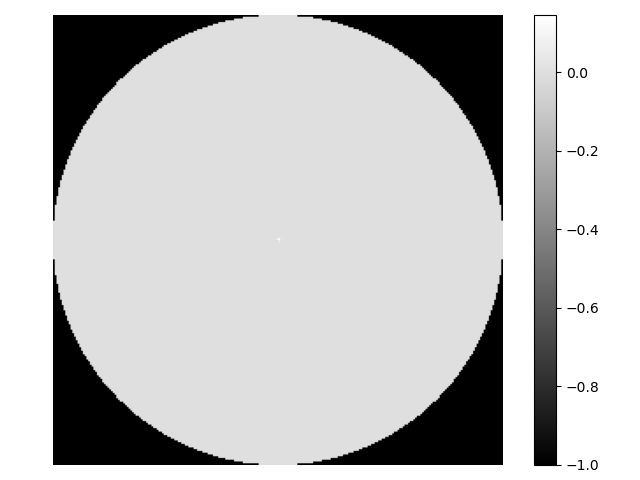
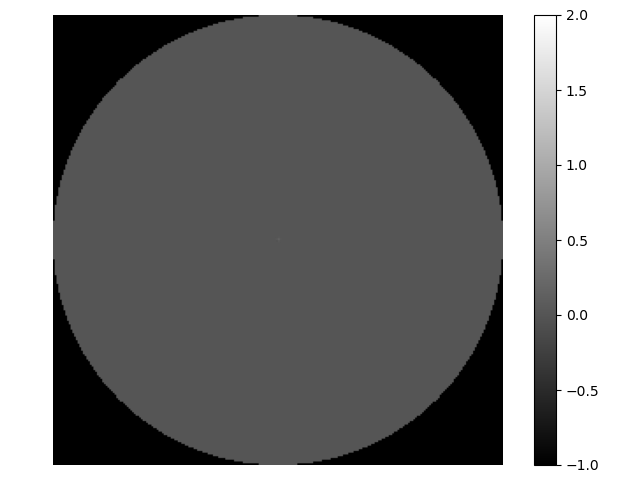
test 4: contrast between ideal and real source.

diff --git a/rt_beam_hard_test.py b/rt_beam_hard_test.py
@@ -1,0 +1,41 @@
+
+# these are the imports you are likely to need
+import numpy as np
+from material import *
+from source import *
+from fake_source import *
+from ct_phantom import *
+from ct_lib import *
+from scan_and_reconstruct import *
+from create_dicom import *
+
+# create object instances
+material = Material()
+source = Source()
+
+def test_4():
+    """contrast reconstructed image using real vs ideal source packet"""
+
+    pic = int(input("Enter the phantom type: "))
+    p = ct_phantom(material.name, 256, pic) # TODO: can try a different material type for pic = 1
+
+    # convert phantom where each pixel stores material index to attenuation coefficient mu at the peak energy value
+    peak_energy = 0.07 # MeV
+    peak_energy_idx = np.nonzero(material.mev==peak_energy)[0][0]
+    p_mu = np.empty(p.shape)
+    for i in range(p.shape[0]):
+        for j in range(p.shape[1]):
+            p_mu[i,j] = material.coeff(material.name[int(p[i,j])])[peak_energy_idx]
+
+    s_real = source.photon('100kVp, 3mm Al')
+    y_real = scan_and_reconstruct(s_real, material, p, 0.01, 256)
+    s_ideal = fake_source(source.mev, 0.1, method='ideal')
+    y_ideal = scan_and_reconstruct(s_ideal, material, p, 0.01, 256)
+
+    # save some meaningful results
+    save_draw(y_real, 'results', 'test_4_p'+ str(int(pic))+ '_image_real', caxis=[-1,2])
+    save_draw(y_ideal, 'results', 'test_4_p'+ str(int(pic))+ '_image_ideal', caxis=[-1,2])
+    save_draw(p_mu, 'results', 'test_4_p'+ str(int(pic))+ '_phantom_mu', caxis=[-1,2])
+
+    # how to check whether these results are actually correct?
+    # check that the 2 drawings of reconstructed scan image and direct phantom image are identical

diff --git a/ct_calibrate.py b/ct_calibrate.py
@@ -52,5 +52,9 @@ def ct_calibrate(photons, material, sinogram, scale):
 	sinogram = -np.log(sinogram / scan_air)
 
 	# TODO: include beam hardening for water
+	t_w = np.arange(0, 10.1, 0.1)
+	p_w = attenuate(photons, material.coeff('Water'), t_w) # attenuation of water for each thickness
+	# Fit a function f to map p_w to t_w
+	f = interpolate.interp1d(p_w, t_w)
 	
 	return sinogram
